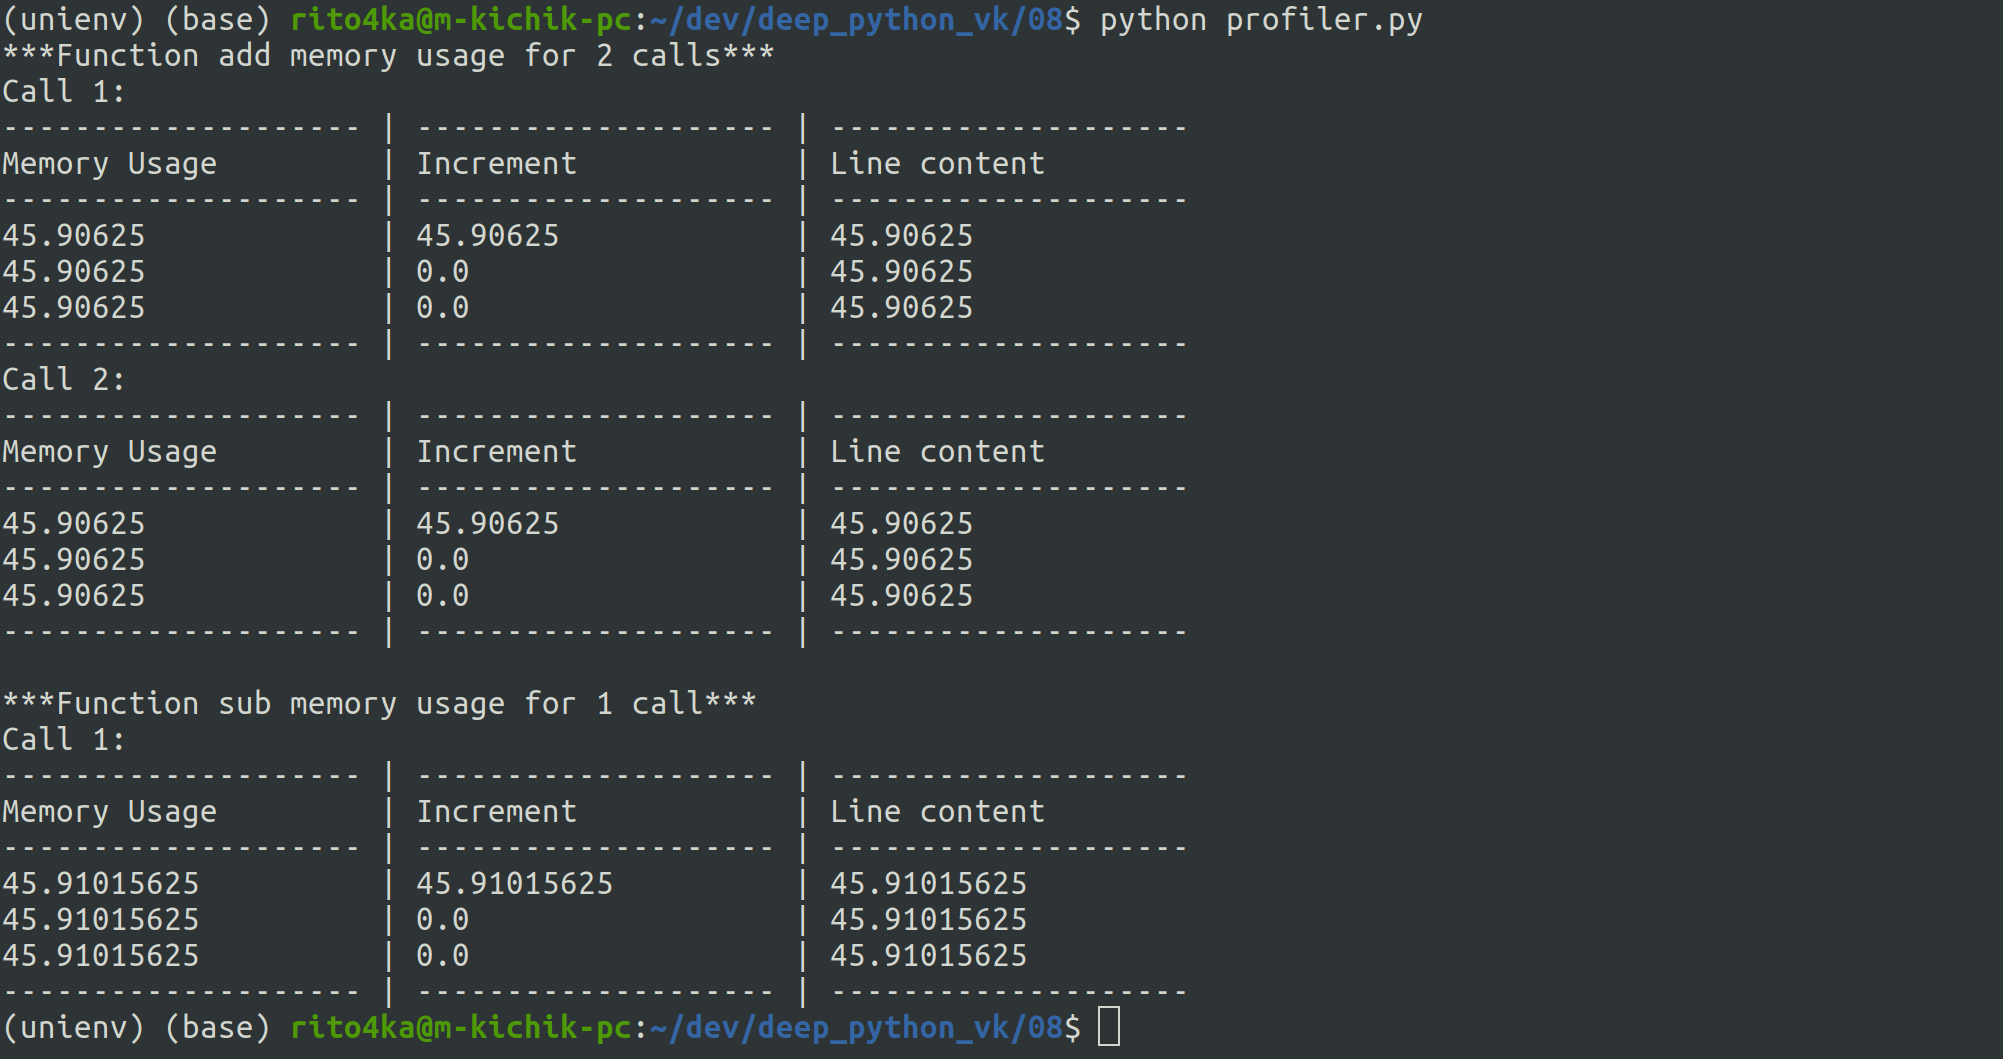
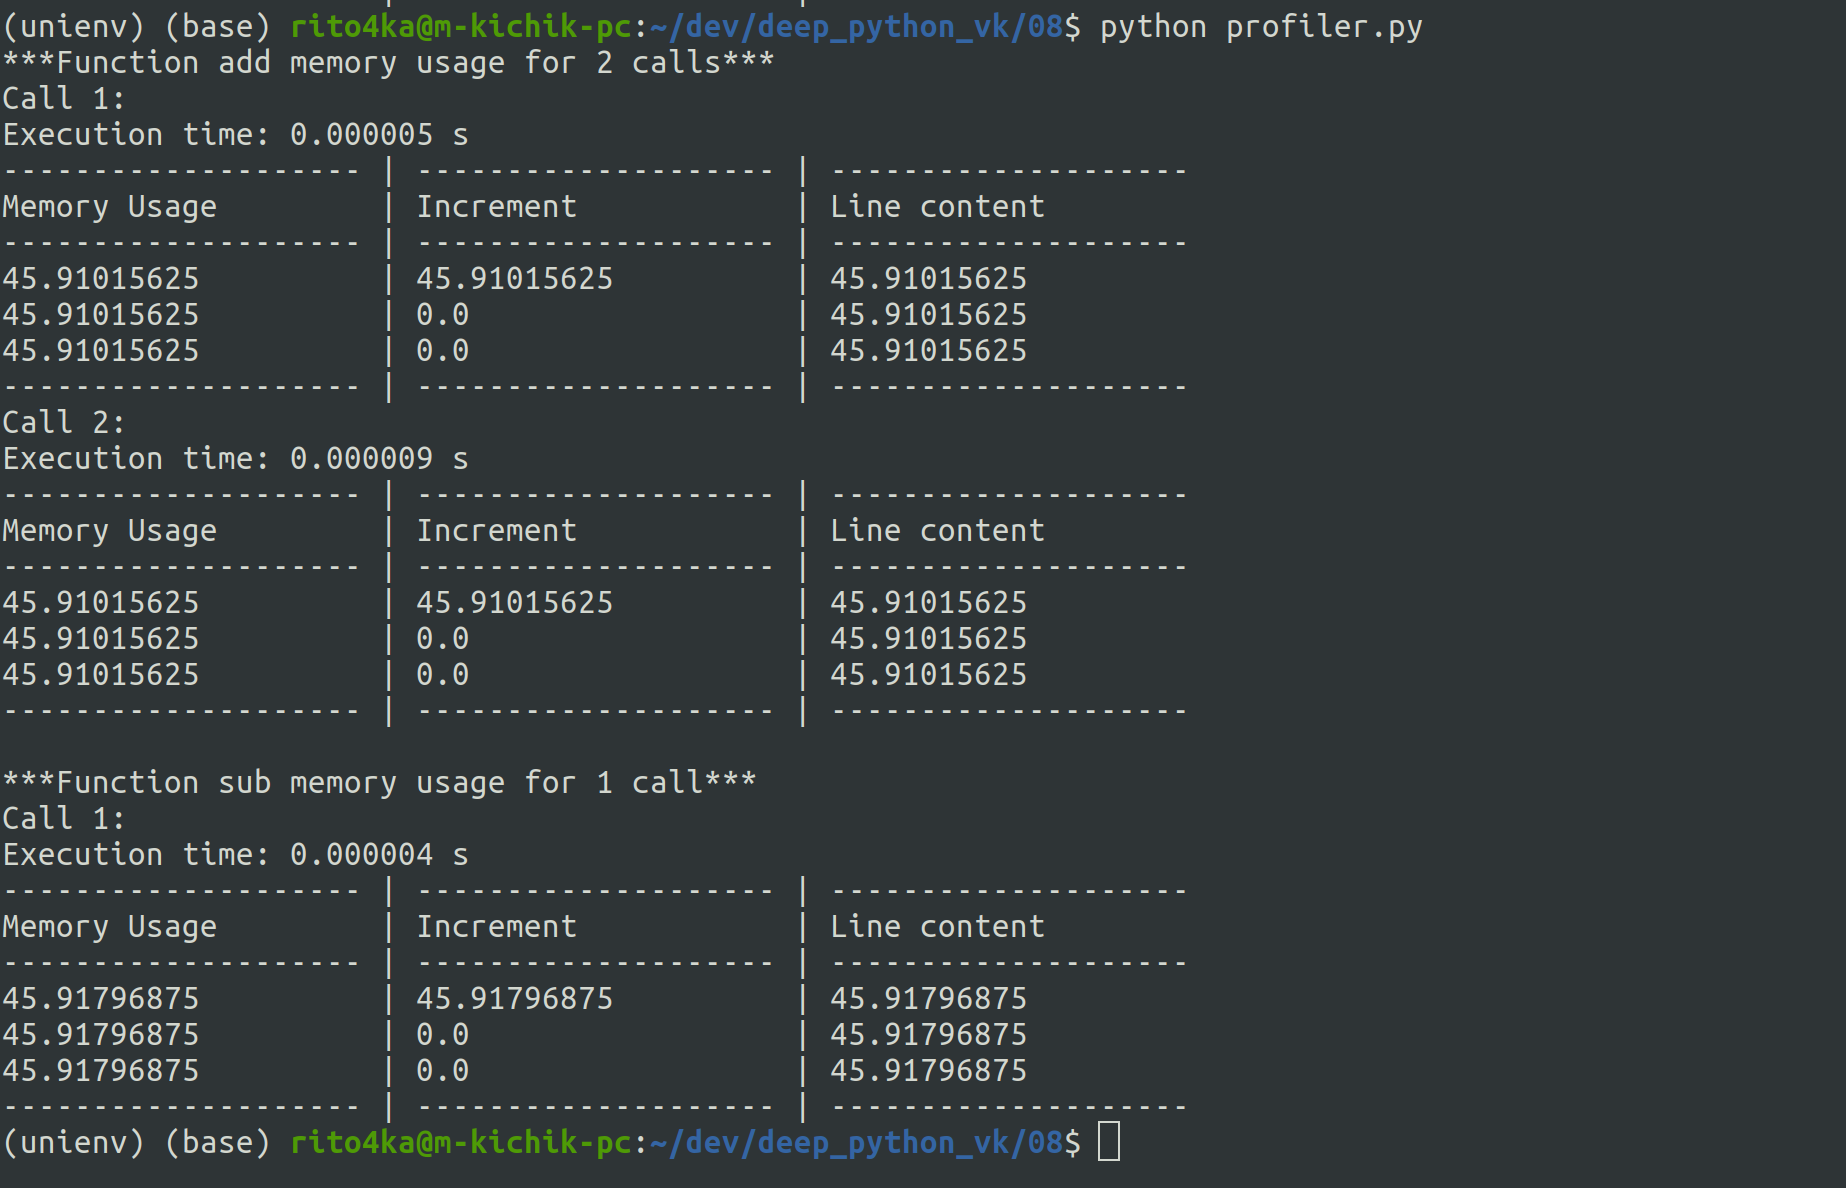
homework 8 v1.0

diff --git a/08/profiler.py b/08/profiler.py
@@ -1,5 +1,6 @@
 import copy
 import inspect
+import time
 from typing import Callable
 
 from memory_profiler import memory_usage
@@ -16,11 +17,19 @@ def profile_deco(function):
 
         def __call__(self, *args, **kwargs):
             self.call_count += 1
-            result = memory_usage(
+            memory = memory_usage(
                 (self.function, copy.deepcopy(args), copy.deepcopy(kwargs))
             )
-            self.calls[self.call_count] = result
-            return self.function(*args, **kwargs)
+            start_time = time.time()
+            result = self.function(*args, **kwargs)
+            exec_time = time.time() - start_time
+
+            self.calls[self.call_count] = {
+                'memory': memory,
+                'time': exec_time,
+                }
+
+            return result
 
         def print_stat(self):
             calls = "call" if self.call_count == 1 else "calls"
@@ -30,6 +39,7 @@ def profile_deco(function):
             )
             for call_n, call_res in self.calls.items():
                 print(f"Call {call_n}:")
+                print(f"Execution time: {call_res['time']:.6f} s")
                 print(format_string.format("-" * 20, "-" * 20, "-" * 20))
                 print(format_string.format("Memory Usage", "Increment", "Line content"))
                 print(format_string.format("-" * 20, "-" * 20, "-" * 20))
@@ -37,12 +47,12 @@ def profile_deco(function):
                 for i in range(self.n_lines):
                     print(
                         format_string.format(
-                            call_res[i],
-                            call_res[i] - mem,
-                            call_res[i],
+                            call_res['memory'][i],
+                            call_res['memory'][i] - mem,
+                            call_res['memory'][i],
                         )
                     )
-                    mem += call_res[i] - mem
+                    mem += call_res['memory'][i] - mem
                 print(format_string.format("-" * 20, "-" * 20, "-" * 20))
 
     return ProfileDecoClass(function)
